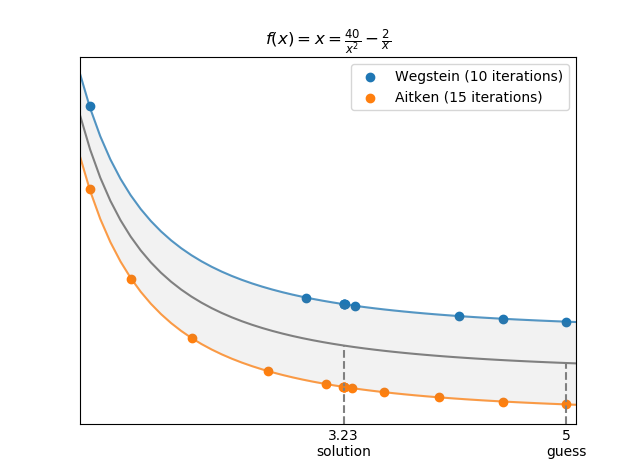
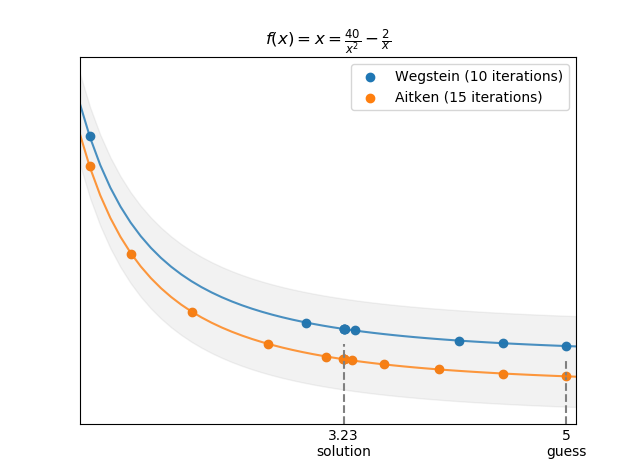
update

Changed region(s): [[0.125, 0.1765, 0.9062, 0.8529], [0.375, 0.7647, 0.4688, 0.7941], [0.3438, 0.7353, 0.375, 0.7647]]

diff --git a/flexsolve/profiler.py b/flexsolve/profiler.py
@@ -85,7 +85,7 @@ class Profiler:
             ys = archive.ys + offset
             plt.scatter(xs, ys, color=color,
                         label=f"{archive.name} ({archive.size} iterations)")
-            plt.plot(rxs, rys + offset, color=color, alpha=0.75)
+            plt.plot(rxs, rys + offset, color=color, alpha=0.8)
             offset -= step
 
     def plot(self, title=None, args=(), markbounds=True):
@@ -101,15 +101,15 @@ class Profiler:
         xs = np.linspace(x_min - dx, x_max + dx)
         f = lambda x: self.f(x, *args)
         ys = np.array([f(x) for x in xs])
-        plt.plot(xs, ys, color='grey')
         y_min = ys.min()
         y_max = ys.max()
         N = len(archives)
-        offset = (y_max - y_min) / 3
+        X = max(12 - 2*N, 3)
+        offset = (y_max - y_min) / X
         step = 2 * offset / N
         offset -= step / 2
         self._plot_points(xs, ys, offset, step)
-        plt.fill_between(xs, ys - offset, ys + offset,
+        plt.fill_between(xs, ys - offset - step, ys + offset + step,
                          color='grey', alpha=0.1)
 
         x_solution = np.mean([i.xs[-1] for i in archives])        

diff --git a/README.rst b/README.rst
@@ -74,7 +74,7 @@ Parameters for each solver are pretty consitent and straight forward:
 
 Here are some exmples using flexsolve's Profiler object to test and compare
 different solvers. In the graphs, the points are the solver iterations and 
-the line is f(x). The points are offset to make them more visible
+the lines represent f(x). The lines and points are offset to make them more visible
 (so the points are actually on the same curve!). The shaded area is just to 
 help us relate the points to the curve (not an actual interval):
 
